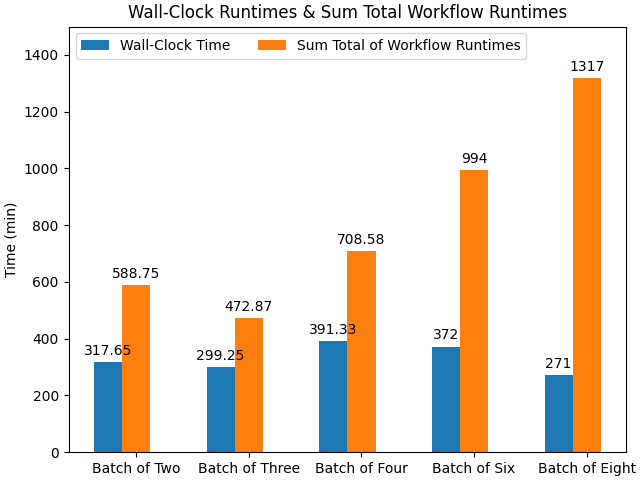
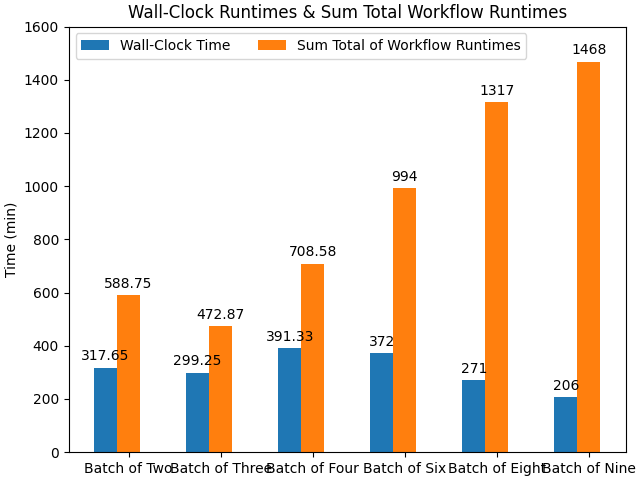
Updated bar chart

diff --git a/python/bar_graphs.py b/python/bar_graphs.py
@@ -16,10 +16,13 @@ batch_of_six_total_wall_clock_time = 372 # minutes
 batch_of_eight_total_individual_runtimes = 1317 # minutes
 batch_of_eight_total_wall_clock_time = 271 # minutes
 
-batches = ("Batch of Two", "Batch of Three", "Batch of Four", "Batch of Six", "Batch of Eight")
+batch_of_nine_total_individual_runtimes = 1468 # minutes
+batch_of_nine_total_wall_clock_time = 206 # minutes
+
+batches = ("Batch of Two", "Batch of Three", "Batch of Four", "Batch of Six", "Batch of Eight", "Batch of Nine")
 batch_times = {
-    'Wall-Clock Time': (batch_of_two_total_wall_clock_time, batch_of_three_total_wall_clock_time, batch_of_four_total_wall_clock_time, batch_of_six_total_wall_clock_time, batch_of_eight_total_wall_clock_time),
-    'Sum Total of Workflow Runtimes': (batch_of_two_total_individual_runtimes, batch_of_three_total_individual_runtimes, batch_of_four_total_individual_runtimes, batch_of_six_total_individual_runtimes, batch_of_eight_total_individual_runtimes)
+    'Wall-Clock Time': (batch_of_two_total_wall_clock_time, batch_of_three_total_wall_clock_time, batch_of_four_total_wall_clock_time, batch_of_six_total_wall_clock_time, batch_of_eight_total_wall_clock_time, batch_of_nine_total_wall_clock_time),
+    'Sum Total of Workflow Runtimes': (batch_of_two_total_individual_runtimes, batch_of_three_total_individual_runtimes, batch_of_four_total_individual_runtimes, batch_of_six_total_individual_runtimes, batch_of_eight_total_individual_runtimes, batch_of_nine_total_individual_runtimes)
 }
 
 x = np.arange(len(batches))
@@ -37,7 +40,7 @@ for attribute, measurement in batch_times.items():
 ax.set_ylabel('Time (min)')
 ax.set_title('Wall-Clock Runtimes & Sum Total Workflow Runtimes')
 ax.set_xticks(x + width_of_bars, batches)
-ax.legend(loc='upper left', ncols=5)
-ax.set_ylim(0, 1500)
+ax.legend(loc='upper left', ncols=6)
+ax.set_ylim(0, 1600)
 
 plt.show()
